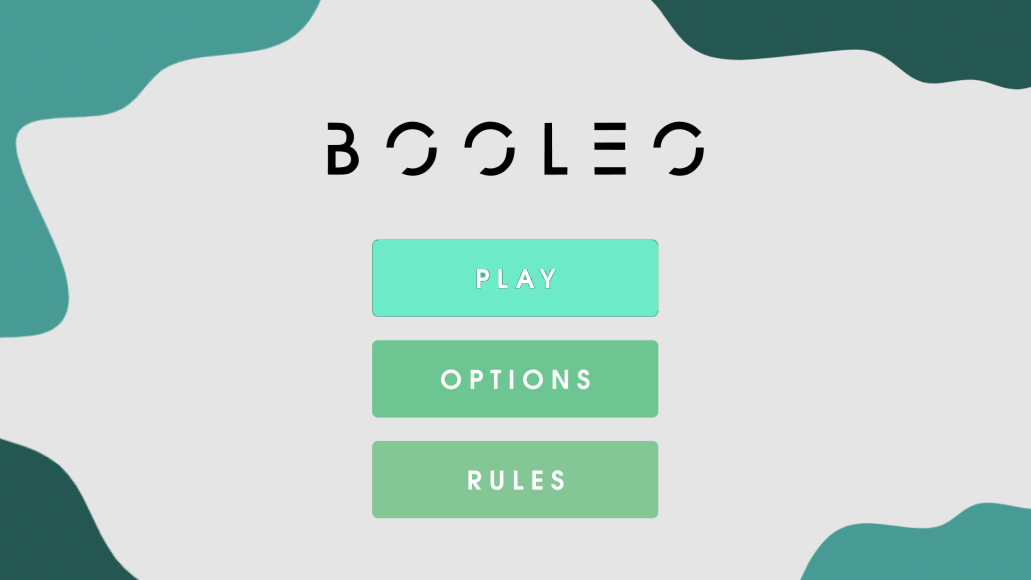
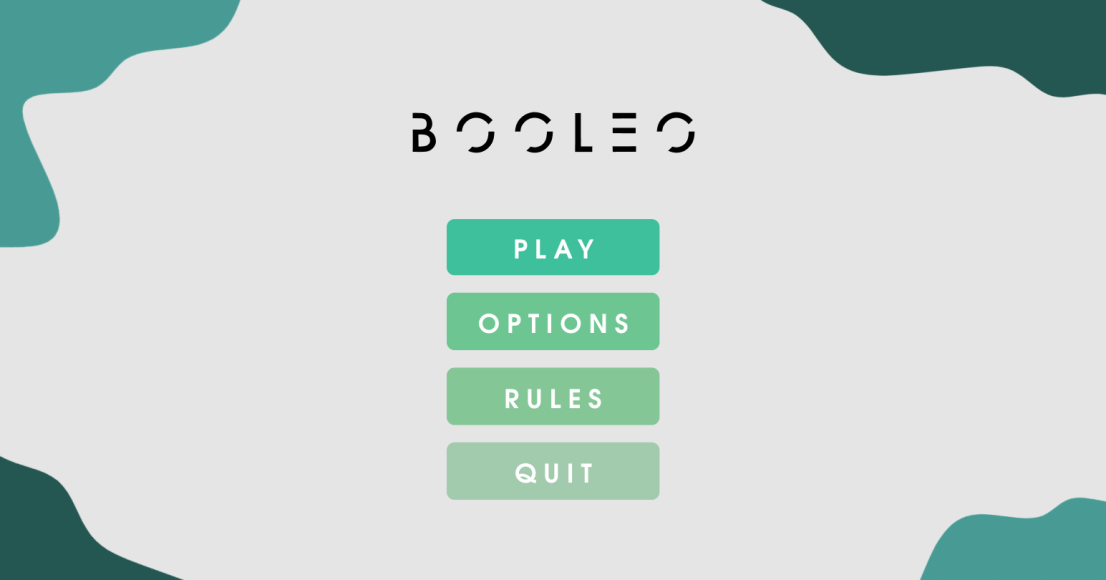
Add hover effect

diff --git a/Game/Program/BooleoGame/Game.cpp b/Game/Program/BooleoGame/Game.cpp
@@ -58,14 +58,14 @@ void game::update()
 	pollEvents();
 }
 
-sf::Window newWindow(sf::VideoMode(1030, 540), "Booleo", sf::Style::Close);
+sf::Window newWindow(sf::VideoMode(1545, 810), "", sf::Style::Close);
 bool game::getMousePos(float x, float y, int a)
 {
 	sf::Vector2i mousepos = sf::Mouse::getPosition(newWindow);
 	switch (a)
 	{
 	case 1: // checking for hovering buttons
-		if ((mousepos.x >= x && mousepos.x <= x + 280) && (mousepos.y >= y && mousepos.y <= y + 70))
+		if ((mousepos.x >= x && mousepos.x <= x + 295) && (mousepos.y >= y && mousepos.y <= y + 75))
 		{
 			return 1;
 		}
@@ -76,15 +76,18 @@ bool game::getMousePos(float x, float y, int a)
 
 void game::menu()
 {
-	this->button1.setSize(sf::Vector2f(280, 70));
-	this->button1.setPosition(375, 225);
-	this->button1.setFillColor(sf::Color(0, 255, 0, 0));
-	this->button2.setSize(sf::Vector2f(280, 70));
-	this->button2.setPosition(375, 315);
-	this->button2.setFillColor(sf::Color(30, 255, 0, 0));
-	this->button3.setSize(sf::Vector2f(280, 70));
-	this->button3.setPosition(375, 410);
-	this->button3.setFillColor(sf::Color(80, 255, 0, 0));
+	this->button1.setSize(sf::Vector2f(295, 75));
+	this->button1.setPosition(625, 307);
+	this->button1.setFillColor(sf::Color(0, 255, 0));
+	this->button2.setSize(sf::Vector2f(295, 75));
+	this->button2.setPosition(625, 412);
+	this->button2.setFillColor(sf::Color(30, 255, 0));
+	this->button3.setSize(sf::Vector2f(295, 75));
+	this->button3.setPosition(625, 516);
+	this->button3.setFillColor(sf::Color(80, 255, 0));
+	this->button4.setSize(sf::Vector2f(295, 75));
+	this->button4.setPosition(625, 620);
+	this->button4.setFillColor(sf::Color(80, 255, 0));
 }
 
 game::game()
@@ -115,7 +118,7 @@ void game::Start()
 		}
 		else { // Game Menu
 			pollEvents();
-			if (game::getMousePos(375, 225, 1))
+			if (game::getMousePos(625, 307, 1))
 			{
 				this->backgroundTexture.loadFromFile("assets/HoverPlay.png");
 				this->backgroundSprite.setTexture(backgroundTexture);
@@ -124,19 +127,33 @@ void game::Start()
 					ready = 1;
 				}
 			}
-			else if (game::getMousePos(375, 315, 1))
+			else if (game::getMousePos(625, 412, 1))
 			{
+				this->backgroundTexture.loadFromFile("assets/HoverOptions.png");
+				this->backgroundSprite.setTexture(backgroundTexture);
 				if (sf::Mouse::isButtonPressed(sf::Mouse::Left))
 				{
 					this->backgroundTexture.loadFromFile("assets/Options.png");
 					this->backgroundSprite.setTexture(backgroundTexture);
 				}
 			}
-			else if (game::getMousePos(375, 410, 1))
+			else if (game::getMousePos(625, 516, 1))
 			{
+				this->backgroundTexture.loadFromFile("assets/HoverRules.png");
+				this->backgroundSprite.setTexture(backgroundTexture);
 				if (sf::Mouse::isButtonPressed(sf::Mouse::Left))
 				{
 					this->backgroundTexture.loadFromFile("assets/Rules.png");
+					this->backgroundSprite.setTexture(backgroundTexture);
+				}
+			}
+			else if (game::getMousePos(625, 620, 1))
+			{
+				this->backgroundTexture.loadFromFile("assets/HoverQuit.png");
+				this->backgroundSprite.setTexture(backgroundTexture);
+				if (sf::Mouse::isButtonPressed(sf::Mouse::Left))
+				{
+					this->backgroundTexture.loadFromFile("assets/Options.png");
 					this->backgroundSprite.setTexture(backgroundTexture);
 				}
 			}
@@ -146,8 +163,6 @@ void game::Start()
 			}
 			menu();
 			this->window->draw(this->backgroundSprite);
-			this->window->draw(this->button2);
-			this->window->draw(this->button3);
 			this->window->display();
 			clock.restart();
 		}

diff --git a/Game/Program/BooleoGame/Game.h b/Game/Program/BooleoGame/Game.h
@@ -15,8 +15,8 @@ class game
 
 private:
 	// Set width and height of window
-	const int window_w = 1030;
-	const int window_h = 540;
+	const int window_w = 1545;
+	const int window_h = 810;
 	sf::RenderWindow* window; // window object
 
 	sf::Event sfmlEvent;
@@ -34,6 +34,7 @@ private:
 	sf::RectangleShape button1;
 	sf::RectangleShape button2;
 	sf::RectangleShape button3;
+	sf::RectangleShape button4;
 
 	void init_window();
 	void initPLayer();
